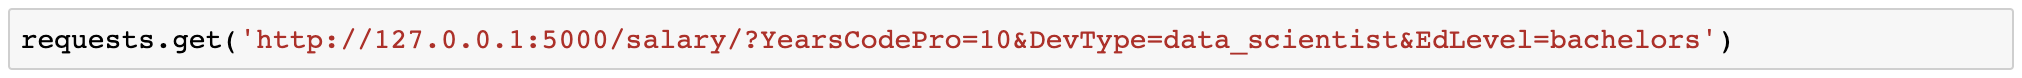
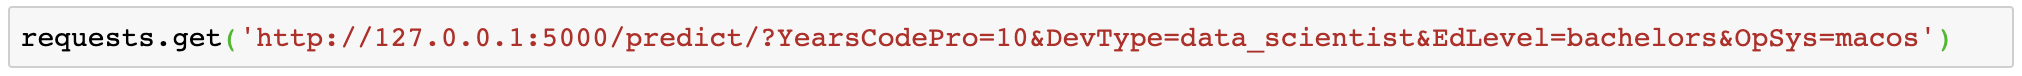
updated

diff --git a/app.py b/app.py
@@ -1,8 +1,6 @@
-from flask import Flask, jsonify
+from flask import Flask, request, jsonify
 import json
-from flask import request
 import pickle
-from sklearn.ensemble import RandomForestRegressor
 
 # load the previously persisted ML assets
 with open('model/final_model.sav', 'rb') as f: 
@@ -32,9 +30,17 @@ def index():
 	# return welcome_message
 	return welcome_message+query_params
 
+@app.route('/sample')
 @app.route('/sample/')
-def sample():
-    return jsonify({'title': 'data scientist', 'city': 'san francisco'})
+def sample(): 
+	inputs={'YearsCodePro': 10, 
+			'Bachelor’s degree (B.A., B.S., B.Eng., etc.)': 1,
+			'Data scientist or machine learning specialist': 1, 
+			'MacOS': 1}
+	input_ary=[inputs[each_feature] if (each_feature in inputs) else 0 for each_feature in input_columns]
+	input_scaled=scaler.transform([input_ary])
+	# prediction=rfr.predict(input_scaled)
+	return jsonify({'input(s)': inputs, 'output': round(rfr.predict(input_scaled)[0], 2)})
 
 # this method takes + as literal
 # this method handles &
@@ -45,9 +51,25 @@ def sample():
 # 	output='machine_learning_model_output'
 # 	return jsonify({'Inputs': query_string, 'Results': output})
 
-@app.route('/salary')
-@app.route('/salary/')
-def salary(): 
+# this method takes + as space
+# this method separates with &
+# this path doesn't handle & symbol well
+# @app.route('/predict')
+# @app.route('/predict/')
+# def predict(): 
+# 	output='machine_learning_model_output'
+# 	# use flat=False to return as list - enables multiple values to same param
+# 	query_params=request.args.to_dict()
+# 	return_dict={
+# 		# 'Inputs': request.args.get('input', ''), 
+# 		'Result': output
+# 	}
+# 	query_params['results']=output
+# 	return jsonify(return_dict)
+
+@app.route('/predict')
+@app.route('/predict/')
+def predict(): 
 	inputs={'YearsCodePro': request.args.get('YearsCodePro', 0)}
 	cat_inputs={'OpSys': request.args.get('OpSys'), 
 			'EdLevel': request.args.get('EdLevel'), 
@@ -56,26 +78,7 @@ def salary():
 	input_ary=[inputs[each_feature] if (each_feature in inputs) else 0 for each_feature in input_columns]
 	input_scaled=scaler.transform([input_ary])
 	# prediction=rfr.predict(input_scaled)
-	return jsonify({'input(s)': inputs, 'output': rfr.predict(input_scaled)[0]})
-
-# this method takes + as space
-# this method separates with &
-# this path doesn't handle & symbol well
-@app.route('/predict')
-@app.route('/predict/')
-def predict(): 
-	output='machine_learning_model_output'
-	# use flat=False to return as list - enables multiple values to same param
-	query_params=request.args.to_dict()
-	# return_dict={
-	# 	# 'Inputs': request.args.get('input', ''), 
-	# 	'Result': output
-	# }
-	query_params['results']=output
-	# return jsonify({'Inputs': query_string, 'Results': output})
-	# return jsonify(request.args.get('input'))
-	# return jsonify(return_dict)
-	return jsonify(query_params)
+	return jsonify({'input(s)': inputs, 'output': round(rfr.predict(input_scaled)[0], 2)})
 
 if __name__=='__main__': 
 	app.run()
